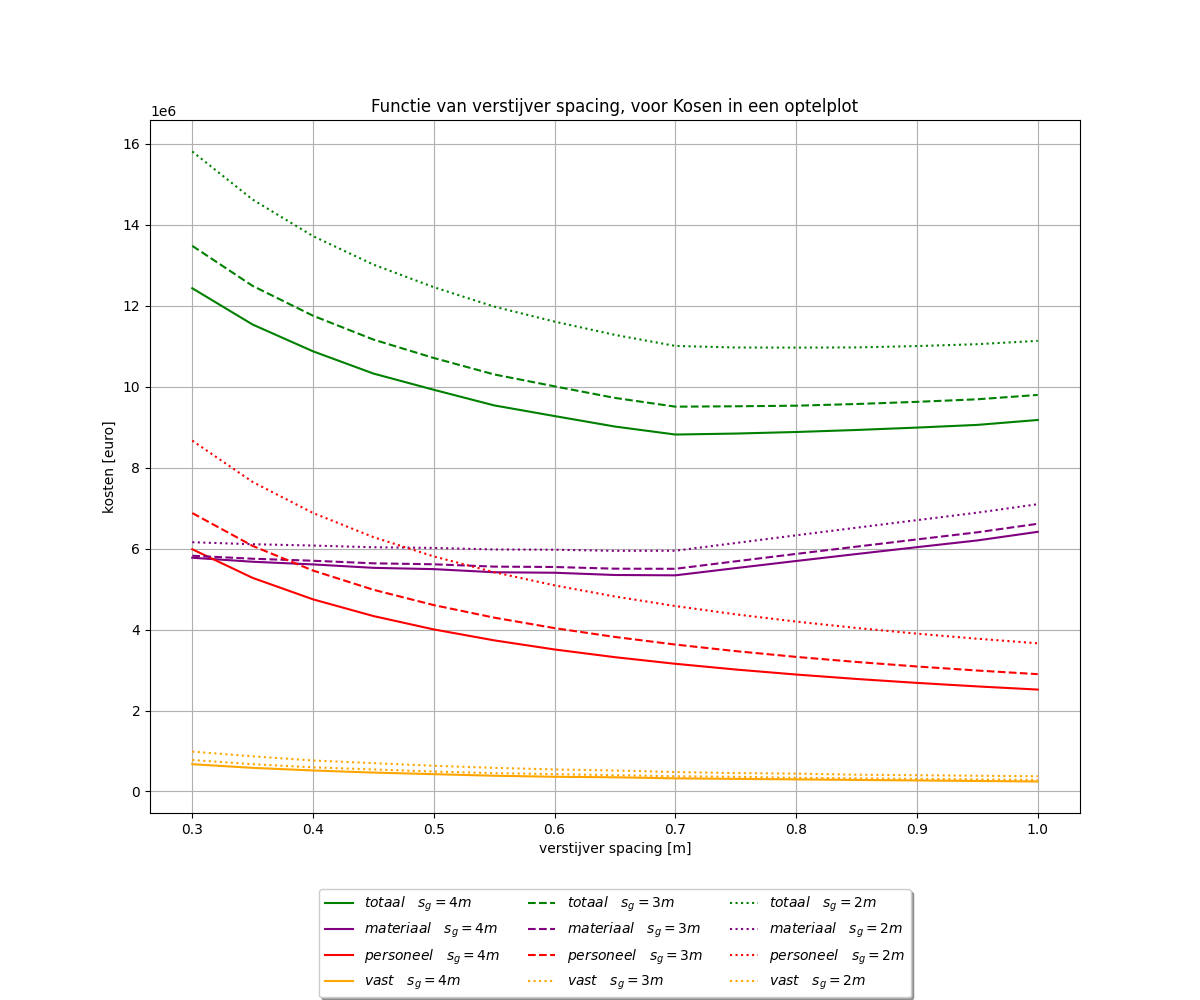
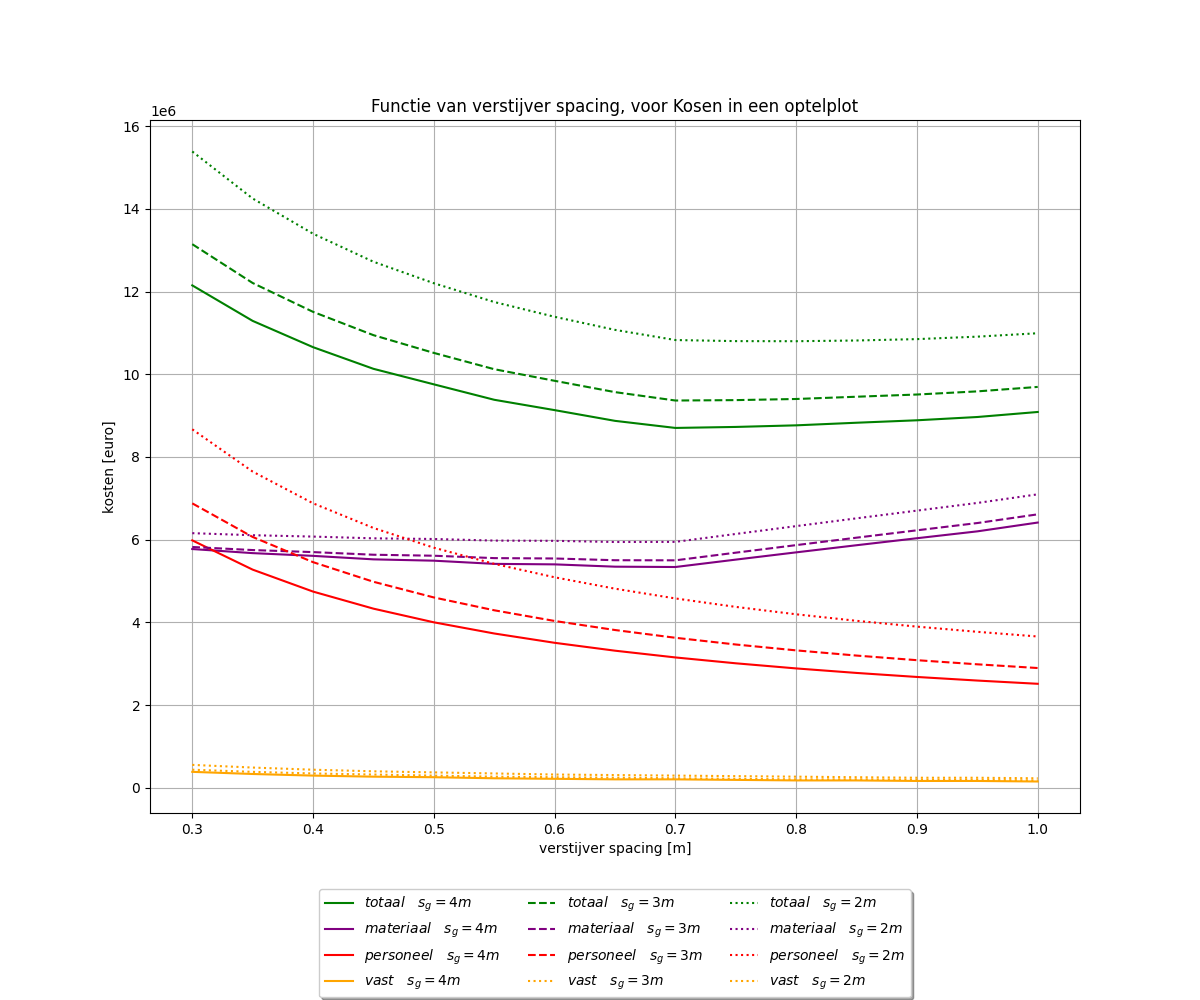
bijna fertig

diff --git a/construeren/plaatproductie/herkansing.py b/construeren/plaatproductie/herkansing.py
@@ -78,7 +78,7 @@ class totaal():
 
 
         urenpplaat = Tphechten + Tplassen+ Tzgslassen+2*Tshechten+2*Tzghechten+2*Tdraaien
-        productieuren = Tphechten + Tplassen+ Tzgslassen+Tshechten+Tzghechten+Tdraaien
+        productieuren = Tphechten + Tplassen+ Tzgslassen/2+Tshechten+Tzghechten+Tdraaien
         personeel = aantal_jaar*50* urenpplaat
 
         nplek = np.int32((productieuren*aantal_jaar)/2000)
@@ -122,15 +122,15 @@ class totaal():
         ndraaien = 2
         Tphechten = nplaat-1
         Tplassen = Llas_plaat/14400
-        Tzgslassen = 1/0.35*(Llas_vrang_verti/1.2 +(Llas_vrang_hori+Llas_zaathout+Llas_spant)/2)*((7.8*5**2)/2000)
+        Tzgslassen = (Llas_vrang_verti/1.2 +(Llas_vrang_hori+Llas_zaathout+Llas_spant)/2)*((7.8*5**2)/2000)/0.35
         Tshechten = 0.5*(nspant)
         Tzghechten = 4*(nvrang+nzaathout)
         Tdraaien = ndraaien*2
 
 
         urenpplaat = Tphechten + Tplassen+ Tzgslassen+2*Tshechten+4*Tzghechten+2*Tdraaien
-        productieuren = Tphechten + Tplassen+ Tzgslassen+Tshechten+Tzghechten+Tdraaien
-        personeel = aantal_jaar*50*urenpplaat
+        productieuren = Tphechten + Tplassen+ Tzgslassen/2+Tshechten+Tzghechten+2*Tdraaien
+        personeel = aantal_jaar*50* urenpplaat
 
         nplek = np.int32((productieuren*aantal_jaar)/2000)
         loods = 2*A*nplek
@@ -180,7 +180,7 @@ class totaal():
                 urenpplaat[i] = loc4en5[i]
         personeel = aantal_jaar*90*urenpplaat
         loods = 1500
-        vastekosten = 70*loods +275000*10*ss/ss
+        vastekosten = 70*loods +275000*ss/ss
         totaal = materiaal + personeel + vastekosten 
         return totaal, materiaal, personeel, vastekosten
 
@@ -225,7 +225,7 @@ class totaal():
 
         personeel = aantal_jaar*90*urenpplaat
         loods = 1200
-        vastekosten = 70*loods +300000*10*ss/ss
+        vastekosten = 70*loods +300000*ss/ss
 
         totaal = materiaal + personeel + vastekosten 
         return totaal, materiaal, personeel, vastekosten
@@ -379,7 +379,7 @@ def plot_personeel_robot(titel):
 
 
 def bar_plot():
-    materiaal_tup = (min(k_h_4_mat),min(g_h_4_mat),min(k_h_4_mat),min(g_h_4_mat))
+    materiaal_tup = (min(g_h_4_mat),min(g_h_4_mat),min(g_h_4_mat),min(g_h_4_mat))
     personeel_tup = (min(k_h_4_per),min(g_h_4_per),min(k_r_4_per),min(g_r_4_per))
     vastekosten_tup = (min(k_h_4_vast),min(g_h_4_vast),min(k_r_4_vast),min(g_r_4_vast))
     figure = plt.figure(figsize=(10,8))
